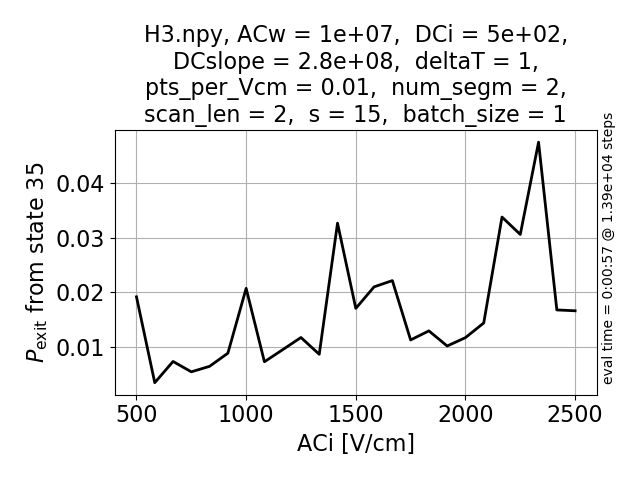
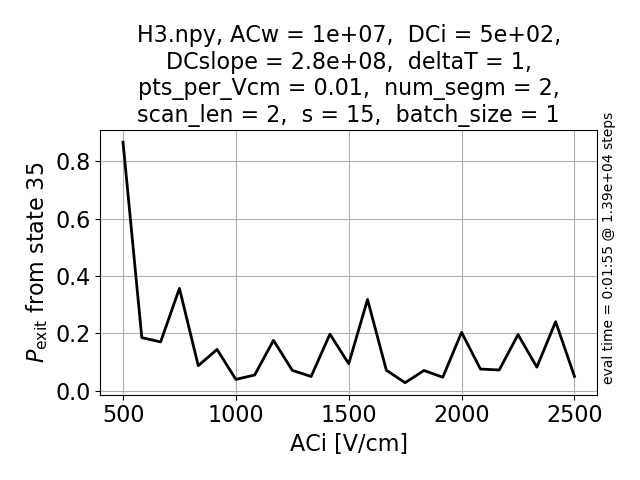
fix the 2*pi error

diff --git a/src/main.py b/src/main.py
@@ -33,7 +33,7 @@ def run_scan(val_range, H_fname, fixed_params, time_params, state_idx,
         U = np.eye(H_fn([[0,0,0,0,0,0]]).shape[-1])
         for t_arr, dt_arr in zip(t_batches, dt_batches):
             field_arr = fields.field(t_arr, **fixed_params, **{scan_param: val1, scan_param2: val2})
-            dU = expm_arr(-1j * dt_arr[:,np.newaxis,np.newaxis] * H_fn(field_arr), s=time_params["s"])
+            dU = expm_arr(-1j * 2*np.pi * dt_arr[:,np.newaxis,np.newaxis] * H_fn(field_arr), s=time_params["s"])
             U = U @ reduce(np.matmul, dU)
 
         # evaluate transition probability
